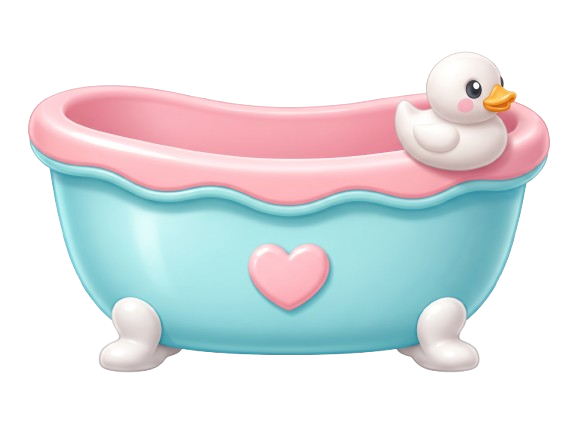
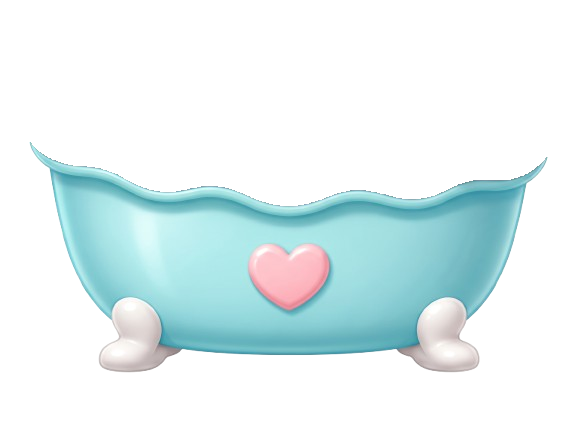
Bath room assets: cut out soap/baby/tub mask and add bath flow test
- soap.png: remove white background while protecting strawberry soap foam
  (border-connected flood + closing-based protection zone around the foam)
- baby_standing.png: crop to the left baby only, transparent background
- bathtub_front.png: keep only the front wall and legs; interior, rim and duck
  are transparent so the baby and water show through
- tools/process_bath_images.py: reproducible processing script (Pillow/SciPy)
- tools/bath_flow_test.mjs: end-to-end bath flow test (ENTER->FILL->SOAP->RINSE->DONE)
  with screenshots in docs/screenshots

Changed region(s): [[0.0311, 0.1204, 0.9654, 0.4815]]

diff --git a/tools/process_bath_images.py b/tools/process_bath_images.py
@@ -1,0 +1,147 @@
+#!/usr/bin/env python3
+"""
+معالجة صور غرفة الاستحمام (Baby Care World) — تفريغ الخلفيات وقص الأقنعة.
+
+يعدّل الملفات الثلاثة التالية في assets/images/ (الأصل محفوظ في سجل Git):
+
+  1) soap.png           تفريغ الخلفية البيضاء مع حماية رغوة الصابون.
+                        الرغوة البيضاء لها نفس لون الخلفية (254–255)، لذلك:
+                        - تُحسب الخلفية كمنطقة بيضاء متصلة بحواف الصورة فقط؛
+                        - تُستثنى من الخلفية منطقة مغلقة حول الصابون والرغوة
+                          (إغلاق مورفولوجي بنصف قطر كبير) حتى لا تتسرب الخلفية
+                          إلى داخل فقاعات الرغوة عبر الفجوات بين حدودها.
+
+  2) baby_standing.png  قص الطفل الموجود على اليسار فقط (من أصل ثلاثة أطفال)،
+                        وتفريغ خلفيته، كصورة مفردة مقصوصة على حدود الطفل.
+
+  3) bathtub_front.png  قناع الواجهة الأمامية فقط: يُحذف كل ما فوق حافة
+                        الواجهة الزرقاء (الحافة الوردية الداخلية والبجعة/البطة)
+                        ليبقى الإطار الأمامي والأرجل، وتبقى المساحة الداخلية
+                        شفافة لظهور الطفل وسطح الماء خلفها.
+                        الأبعاد لا تتغير (578×432) حتى يبقى موضع العرض في اللعبة.
+
+التشغيل (يحتاج Pillow و SciPy):
+    python3 tools/process_bath_images.py
+"""
+
+from pathlib import Path
+
+import numpy as np
+from PIL import Image
+from scipy import ndimage
+
+ROOT = Path(__file__).resolve().parent.parent
+IMG = ROOT / 'assets' / 'images'
+
+WHITE_THRESHOLD = 243      # قناة دنيا >= هذه القيمة تعتبر "أبيض" (خلفية)
+SOAP_PROTECT_RADIUS = 45   # نصف قطر الإغلاق لحماية الرغوة (بكسل)
+
+
+def border_connected(mask):
+    """يعيد المنطقة المتصلة بحواف الصورة فقط من القناع المعطى."""
+    lab, _ = ndimage.label(mask)
+    edge_ids = np.unique(np.concatenate([lab[0], lab[-1], lab[:, 0], lab[:, -1]]))
+    edge_ids = edge_ids[edge_ids != 0]
+    return np.isin(lab, edge_ids)
+
+
+def disk(r):
+    yy, xx = np.ogrid[-r:r + 1, -r:r + 1]
+    return (xx * xx + yy * yy) <= r * r
+
+
+# ---------------------------------------------------------------------------
+# 1) soap.png
+# ---------------------------------------------------------------------------
+def process_soap():
+    path = IMG / 'soap.png'
+    rgb = np.array(Image.open(path).convert('RGB'))
+    mn = rgb.min(axis=2)
+
+    bg_flood = border_connected(mn >= WHITE_THRESHOLD)
+    foreground = ~bg_flood
+    # حماية الرغوة: كل ما يقع داخل الغلاف المغلق للصابون+الرغوة لا يُحذف
+    protect = ndimage.binary_closing(foreground, structure=disk(SOAP_PROTECT_RADIUS))
+    protect = ndimage.binary_fill_holes(protect | foreground)
+    background = bg_flood & ~protect
+
+    alpha = np.where(background, 0, 255).astype(np.uint8)
+    out = np.dstack([rgb, alpha])
+    Image.fromarray(out, 'RGBA').save(path, optimize=True)
+    print(f'soap.png: خلفية مفرغة {background.mean() * 100:.1f}%')
+
+
+# ---------------------------------------------------------------------------
+# 2) baby_standing.png — الطفل الأيسر فقط
+# ---------------------------------------------------------------------------
+def process_baby_standing():
+    path = IMG / 'baby_standing.png'
+    src = np.array(Image.open(path).convert('RGBA'))
+    h, w = src.shape[:2]
+
+    # حدّ الطفل الأيسر: قبل بداية الطفل الأوسط (تقدّر من تحليل الأعمدة: 19–208 / 220–448 / 461–643)
+    # نأخذ نطاقاً آمناً يتوقف عند منتصف الفجوة الأولى
+    split_x = 214
+    region = src[:, :split_x].copy()
+
+    rgb = region[..., :3]
+    alpha_in = region[..., 3]
+    mn = rgb.min(axis=2)
+    # الخلفية: شفافة أصلاً، أو بيضاء متصلة بالحواف
+    background = (alpha_in < 10) | border_connected((mn >= WHITE_THRESHOLD) & (alpha_in >= 10))
+    foreground = ~background
+
+    # أكبر مكوّن متصل = الطفل نفسه (يستبعد أي بقايا من الطفل الأوسط)
+    lab, n = ndimage.label(foreground)
+    if n == 0:
+        raise SystemExit('لم يُعثر على الطفل الأيسر')
+    sizes = ndimage.sum(foreground, lab, index=range(1, n + 1))
+    keep = lab == (int(np.argmax(sizes)) + 1)
+    keep = ndimage.binary_fill_holes(keep)
+
+    ys, xs = np.where(keep)
+    margin = 4
+    y0, y1 = max(0, ys.min() - margin), min(h, ys.max() + 1 + margin)
+    x0, x1 = max(0, xs.min() - margin), min(split_x, xs.max() + 1 + margin)
+
+    crop = region[y0:y1, x0:x1].copy()
+    crop_keep = keep[y0:y1, x0:x1]
+    crop[..., 3] = np.where(crop_keep, np.where(crop[..., 3] < 10, 255, crop[..., 3]), 0)
+    # الحواف الشفافة الداخلية تُبقى كما هي؛ الخلفية المفرّغة صارت alpha=0
+    Image.fromarray(crop, 'RGBA').save(path, optimize=True)
+    print(f'baby_standing.png: قُصّ إلى {crop.shape[1]}×{crop.shape[0]} (الطفل الأيسر)')
+
+
+# ---------------------------------------------------------------------------
+# 3) bathtub_front.png — الإطار الأمامي والأرجل فقط
+# ---------------------------------------------------------------------------
+def process_bathtub_front():
+    path = IMG / 'bathtub_front.png'
+    src = np.array(Image.open(path).convert('RGBA')).astype(int)
+    h, w = src.shape[:2]
+    r, g, b, a = src[..., 0], src[..., 1], src[..., 2], src[..., 3]
+
+    # جسم الواجهة الزرقاء: أزرق واضح وسط الصورة (يحدد حافة الواجهة العلوية)
+    blue_body = (a > 128) & (b > r + 30) & (g > r + 20)
+
+    keep = np.zeros((h, w), dtype=bool)
+    for x in range(w):
+        col = np.where(blue_body[:, x])[0]
+        if col.size == 0:
+            continue
+        top = col[0]              # أول بكسل أزرق مباشرة (بدون هامش يسمح ببقايا الوردي)
+        keep[max(0, top):, x] = True
+
+    # الأرجل والإطار: كل ما تحت الحافة الزرقاء يبقى كما هو (بما فيه الأبيض للأرجل)
+    new_alpha = np.where(keep, a, 0).astype(np.uint8)
+    out = np.array(Image.open(path).convert('RGBA'))
+    out[..., 3] = new_alpha
+    Image.fromarray(out, 'RGBA').save(path, optimize=True)
+    removed = (a > 0).sum() - (new_alpha > 0).sum()
+    print(f'bathtub_front.png: أُزيل {removed} بكسل من الداخل/الفوق')
+
+
+if __name__ == '__main__':
+    process_soap()
+    process_baby_standing()
+    process_bathtub_front()
